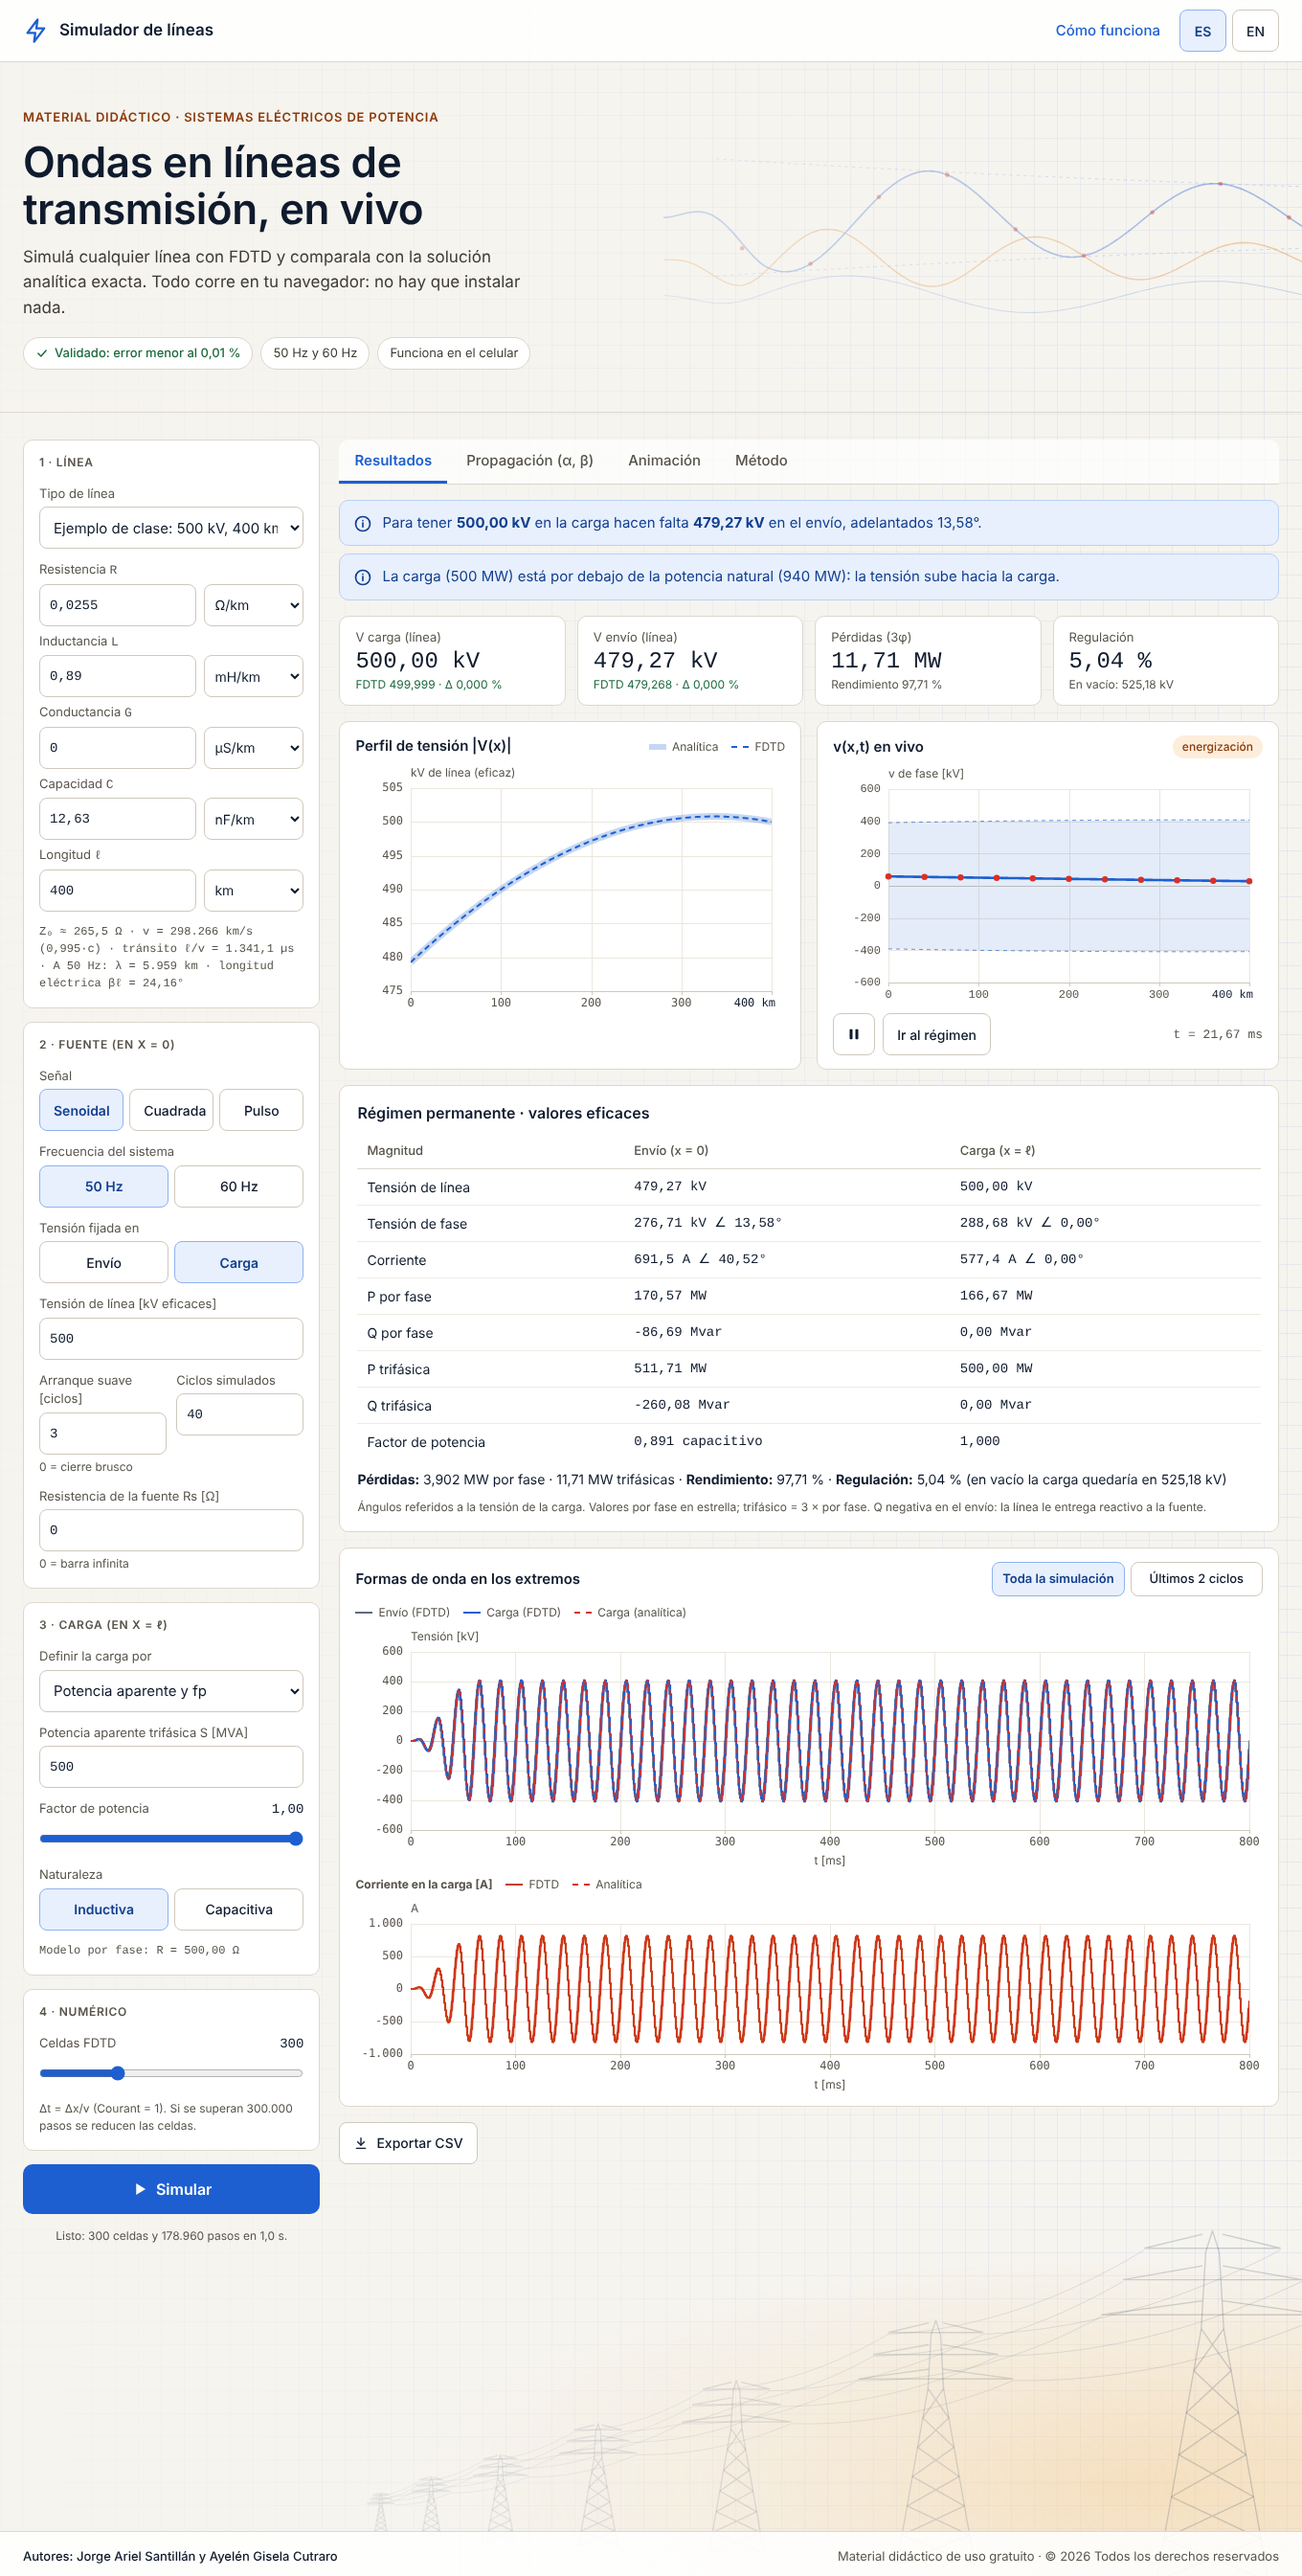
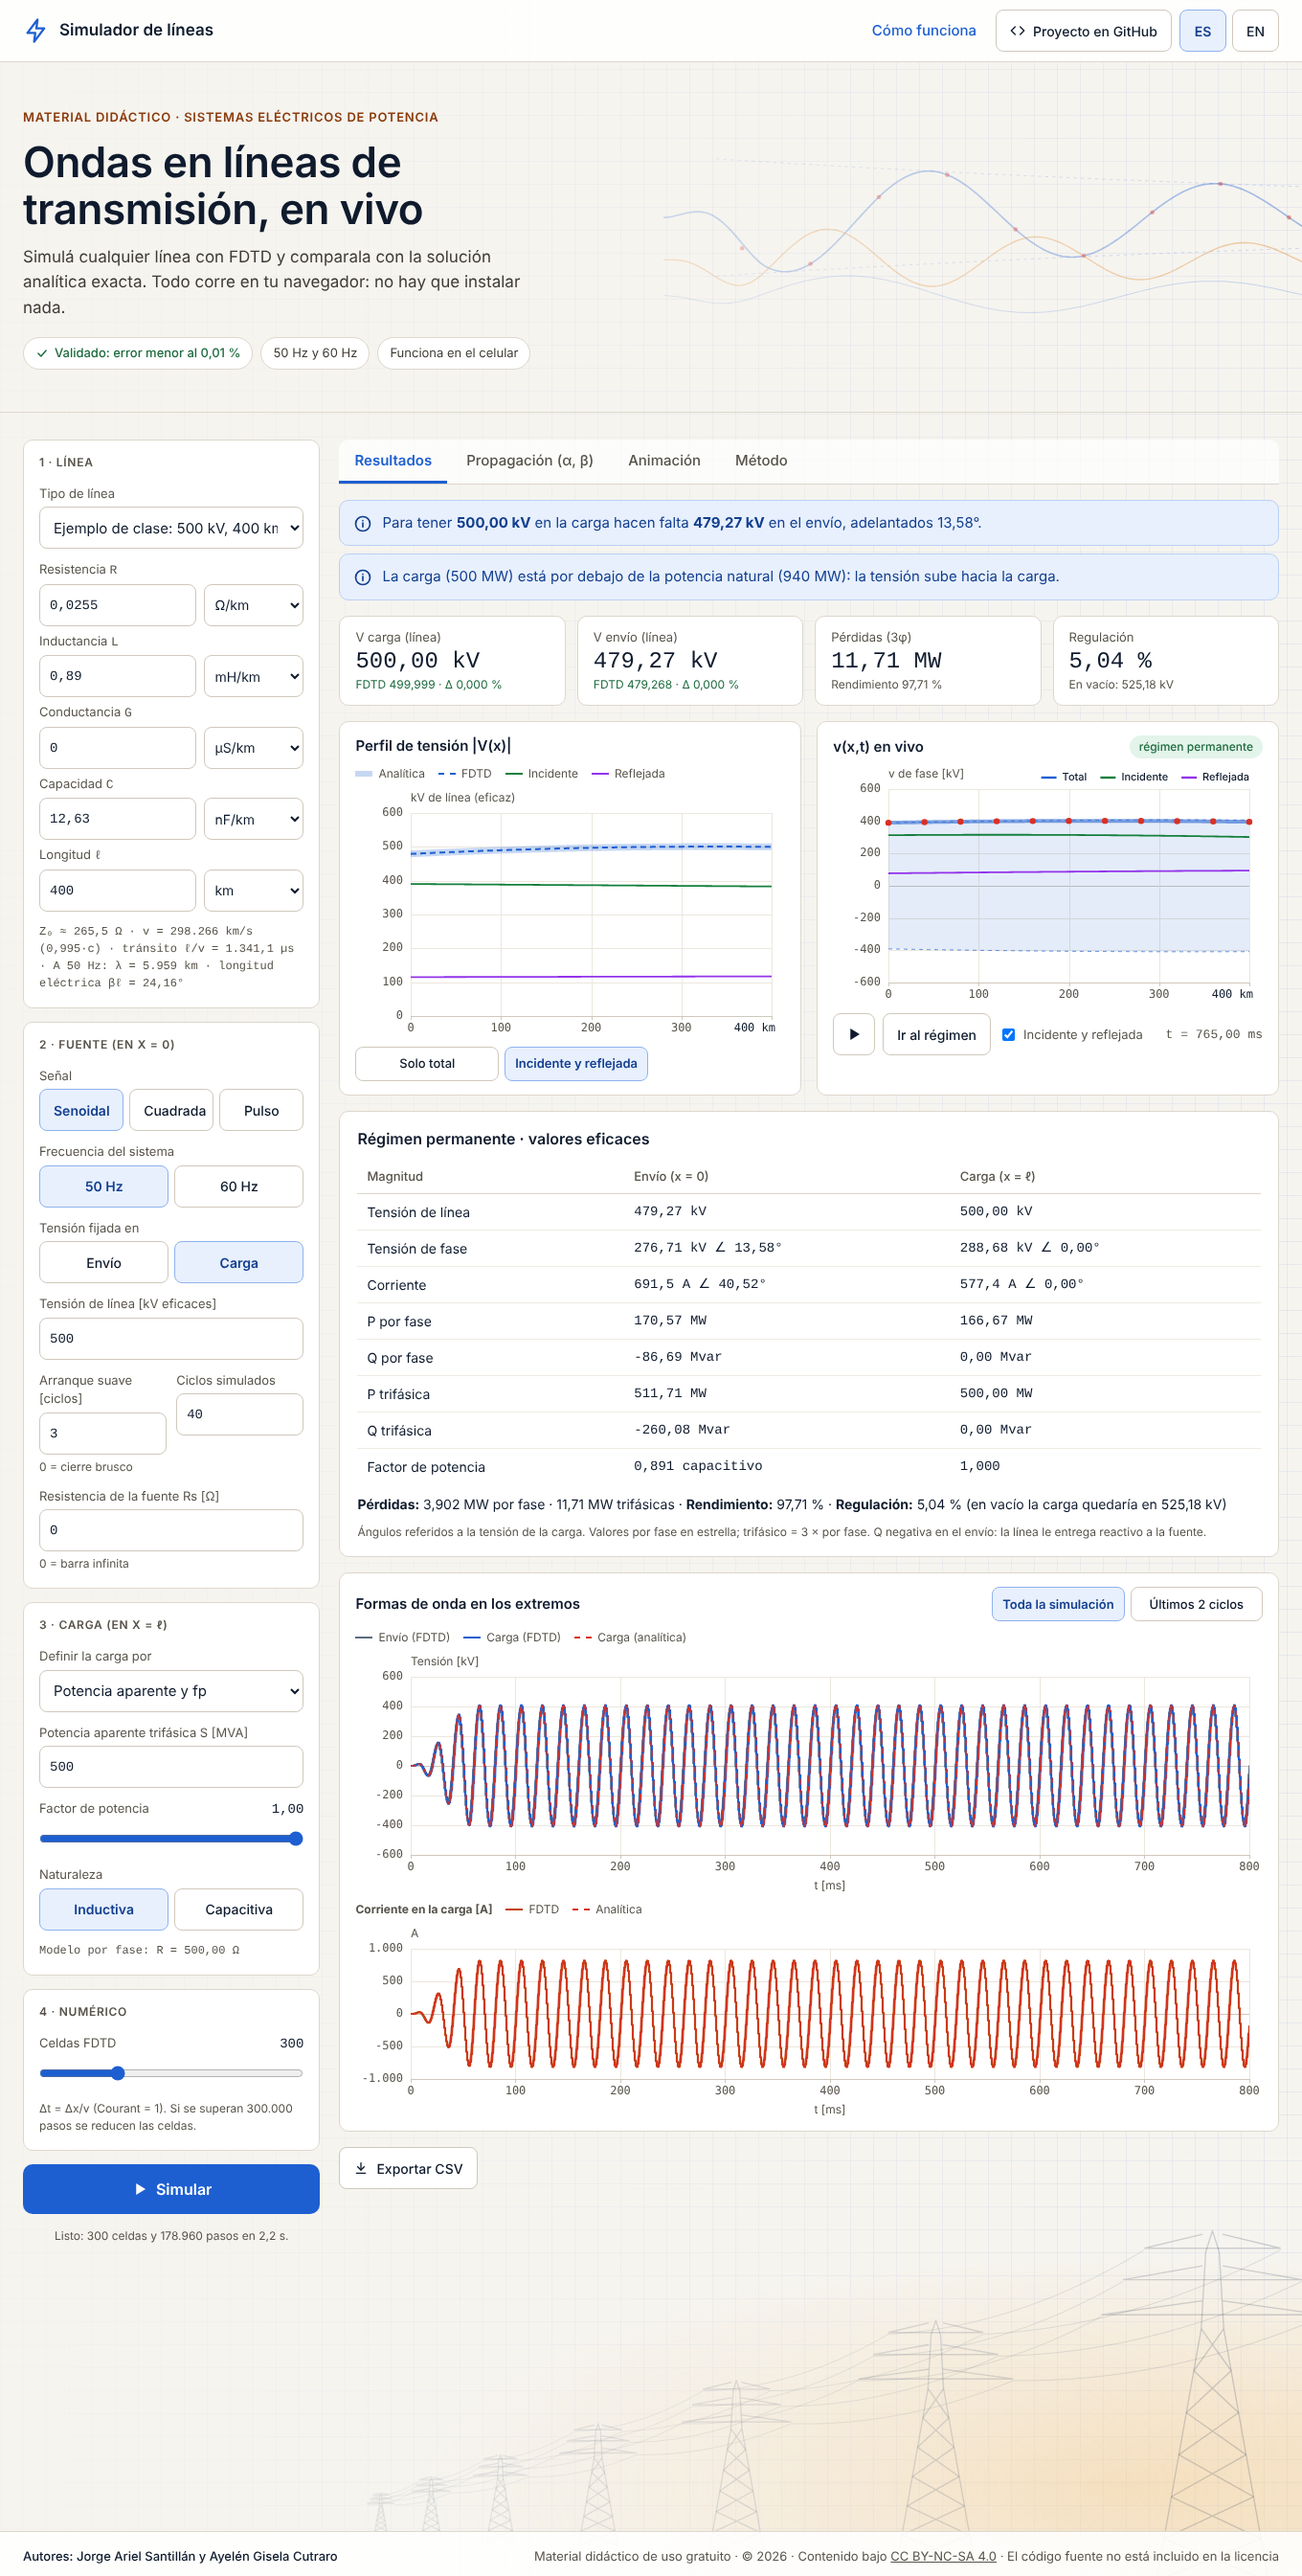
Vitrina: onda incidente y reflejada, animaciones y capturas nuevas
Claude-Session: https://claude.ai/code/session_01Y8BDcqqBeNuuJ4XcJGWvje

diff --git a/README.md b/README.md
@@ -24,6 +24,7 @@ Una página web gratuita, pensada como material didáctico, donde cualquiera pue
 - **definir la carga:** por MVA y factor de potencia, por impedancia, o en circuito abierto, cortocircuito o adaptada;
 - **elegir la fuente:** senoidal a 50 o 60 Hz, con la tensión fijada en el envío o en la carga, onda cuadrada o pulso;
 - **ver la onda viajar y reflejarse** a lo largo de la línea, en tiempo real, con la solución analítica superpuesta;
+- **separar la onda incidente y la reflejada:** en la animación y en el perfil |V(x)| se ve qué parte de la tensión viaja hacia la carga y qué parte vuelve hacia la fuente;
 - **obtener los resultados de régimen:** tabla por fase y trifásica, pérdidas, rendimiento, regulación, efecto Ferranti y comparación con la potencia natural (SIL);
 - **medir α y β** sobre la simulación y compararlos con la teoría;
 - **exportar** la animación en video y las formas de onda en CSV.
@@ -33,6 +34,16 @@ Funciona en la computadora y en el celular, en **español e inglés**, y **sin s
 ![Vista de escritorio](docs/escritorio.png)
 
 <p align="center"><img src="docs/celular.png" alt="Vista en el celular" width="300"></p>
+
+### Onda incidente y reflejada
+
+La tensión en cada punto es la suma de una onda que viaja hacia la carga (**incidente**, en verde) y otra que vuelve hacia la fuente (**reflejada**, en violeta). En el pulso se ve clarísimo: llega a la carga en circuito abierto y vuelve entero como onda reflejada, con la corriente invertida.
+
+![Pulso que llega a una carga abierta y vuelve como onda reflejada](docs/reflexion-pulso.gif)
+
+En régimen senoidal, el perfil |V(x)| muestra la incidente, la reflejada y la total que resulta de combinarlas:
+
+![Perfil de tensión con onda incidente y reflejada](docs/perfil-ondas.png)
 
 ## Cómo funciona
 
@@ -50,6 +61,7 @@ flowchart LR
 
 - **FDTD:** la línea se discretiza en una grilla de Yee 1D (tensión en los nodos, corriente a media celda, salto de rana) con paso Δt = Δx/v. En x = 0 hay un generador de Thevenin y en x = ℓ una carga concentrada R, R-L o R-C, integrada con la regla trapezoidal.
 - **Analítica:** solución exacta de línea larga en el dominio de Laplace, con todas las reflexiones múltiples. Para la senoidal se resuelve con fasores; para pulsos y ondas cuadradas se vuelve al tiempo con una **transformada de Laplace numérica** (s = σ + jω y FFT).
+- **Onda incidente y reflejada:** en senoidal se separan con la solución exacta, V(x) = A·e^(−γx) + A·Γ_L·e^(−γ(2ℓ−x)), con Zc complejo. En pulsos y ondas cuadradas se usa v± = (v ± Z₀·i)/2 sobre la grilla del FDTD, con la corriente promediada al mismo instante que la tensión.
 - **α y β desde la simulación:** la línea se carga con su propia Zc y se ajusta V(x) = A·e^(−γx) + B·e^(+γx) con Levenberg-Marquardt. En banda ancha, un pulso registrado en dos puntos da H(f) = e^(−γΔx).
 
 ![Propagación: α y β medidos con FDTD contra la teoría](docs/propagacion.png)
@@ -65,6 +77,8 @@ Cada número que muestra la página se compara con una solución exacta, y hay u
 | Mismo caso: pérdidas trifásicas | 11,705 MW | 11,705 MW |
 | Pulso con carga R-L y onda cuadrada con carga R-C | — | error L2 < 0,06 % |
 | Reflexión en carga abierta, corto y adaptada | Γ = +1, −1, 0 | +1,000 · 0 · 0,000 |
+| Incidente + reflejada = total | exacta | error < 10⁻¹⁴ |
+| Onda reflejada con carga adaptada (FDTD) | 0 | < 0,1 % del pulso |
 | α y β a 50 y 60 Hz | — | error < 0,01 % |
 | α(f) y β(f) de 10 Hz a 170 kHz | — | error mediano < 0,001 % |
 
@@ -74,6 +88,7 @@ Cada número que muestra la página se compara con una solución exacta, y hay u
 - **Doble implementación.** El núcleo se desarrolló primero en Python (NumPy y SciPy) y después se llevó a JavaScript. Las dos versiones se validan contra los mismos casos y dan los mismos resultados.
 - **Medir α, que es muy chico.** α ≈ 0,0004 dB/km, así que una reflexión residual del 0,1 % en la carga alcanzaba para dar un 3 % de error. Ajustar también la onda reflejada lo bajó a menos del 0,01 %.
 - **Ambigüedad de fase.** La fase de H(f) solo se conoce módulo 2π; el múltiplo correcto se fija con la estimación ω/v.
+- **Separar las ondas sin errores de desfase.** En la grilla de Yee la corriente se calcula medio paso de tiempo después que la tensión. Usarla así para separar las ondas creaba una onda reflejada falsa de un 5 %. Promediando la corriente al mismo instante que la tensión, quedó por debajo del 0,1 %.
 - **Amplitud de régimen.** Se mide con la componente fundamental (DFT del último ciclo) y no con el valor máximo, porque el transitorio de energización puede no haberse extinguido. La página avisa cuando todavía no se llegó al régimen.
 - **Costo numérico.** Con Courant = 1, una línea corta a 50 Hz necesita cientos de miles de pasos. Se limita a 300 000 pasos y se reducen las celdas, avisándole al usuario.
 - **Animación didáctica.** Se guardan perfiles finos (36 por ciclo) solo durante la energización y en los últimos ciclos, para que la senoidal se vea oscilar sin efecto estroboscópico y sin gastar memoria.
@@ -119,7 +134,7 @@ An interactive, free web simulator of the **telegrapher's equations**, built as 
 - set line parameters with selectable units;
 - define the load in MVA and power factor;
 - choose a 50/60 Hz sine (with the voltage specified at the sending or receiving end), a square wave or a pulse;
-- watch waves travel and reflect;
+- watch waves travel and reflect, with the **incident and reflected waves** shown separately;
 - get steady-state tables, losses, regulation and the Ferranti effect;
 - measure the propagation constant α and β;
 - export videos.
